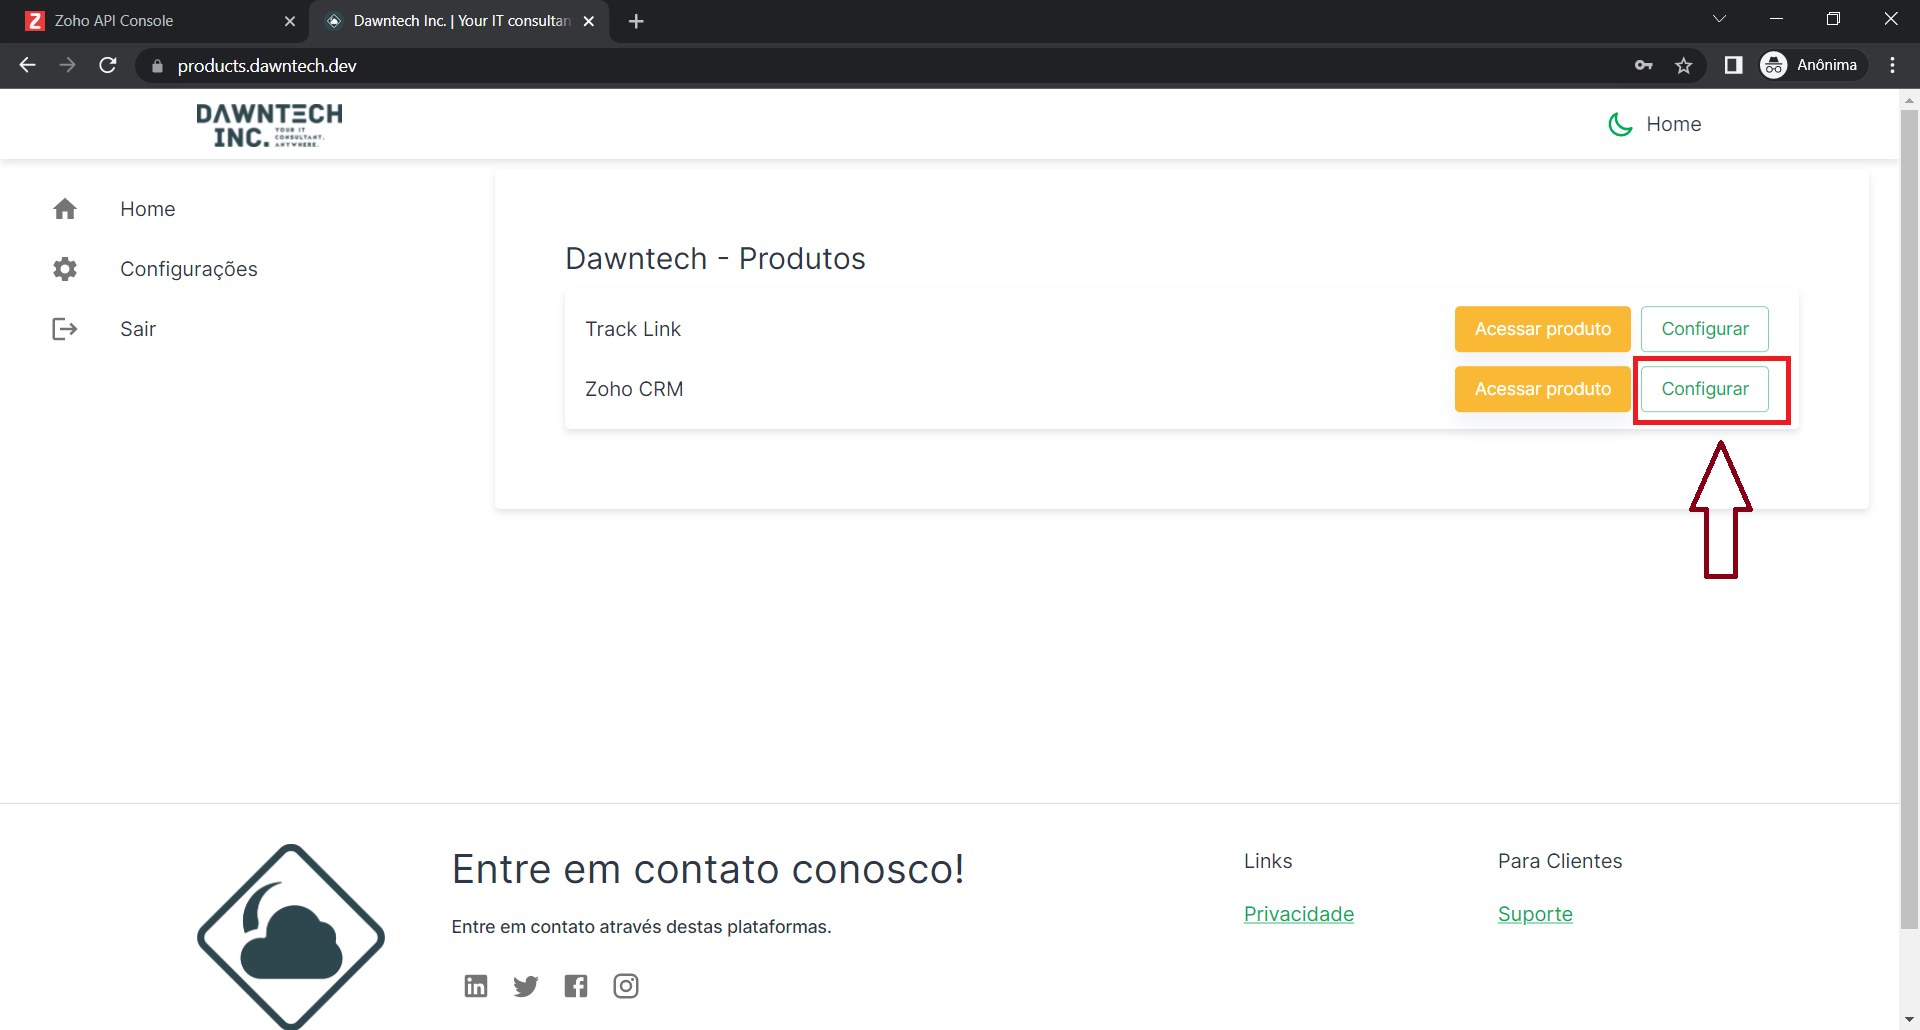
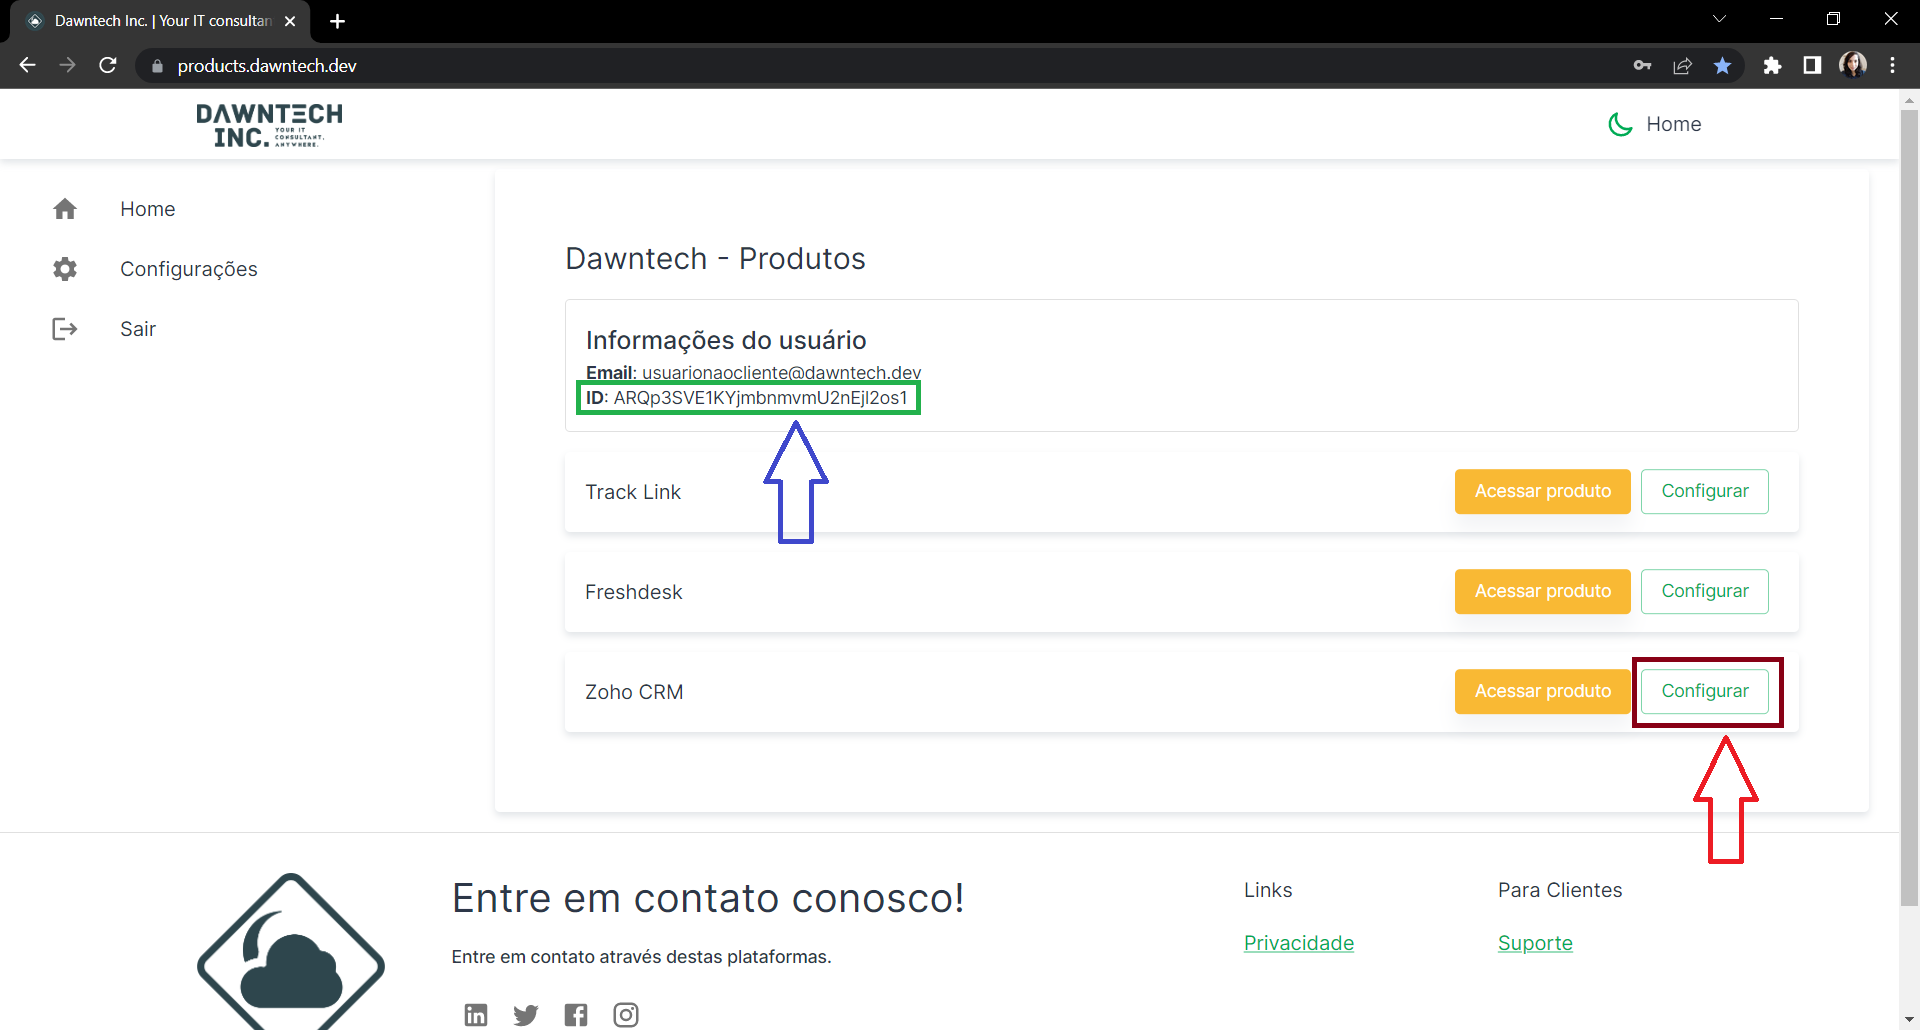
DWN-518: Updates steps and images for settings at products.dawntech

diff --git a/README.md b/README.md
@@ -67,7 +67,7 @@
 
     Guarde o refresh_token
 
-13. Acesse https://products.dawntech.dev/ e se já não estiver logado, faça login.
+13. Acesse https://products.dawntech.dev/ e se já não estiver logado, faça login. Perceba que além do seu e-mail, aparecerá o seu ID, que será utilizado para acessar o middleware.
 14. Clique na opção de configurar o Zoho CRM.
 
     ![image](./images/tela_products_dawntech.png)
